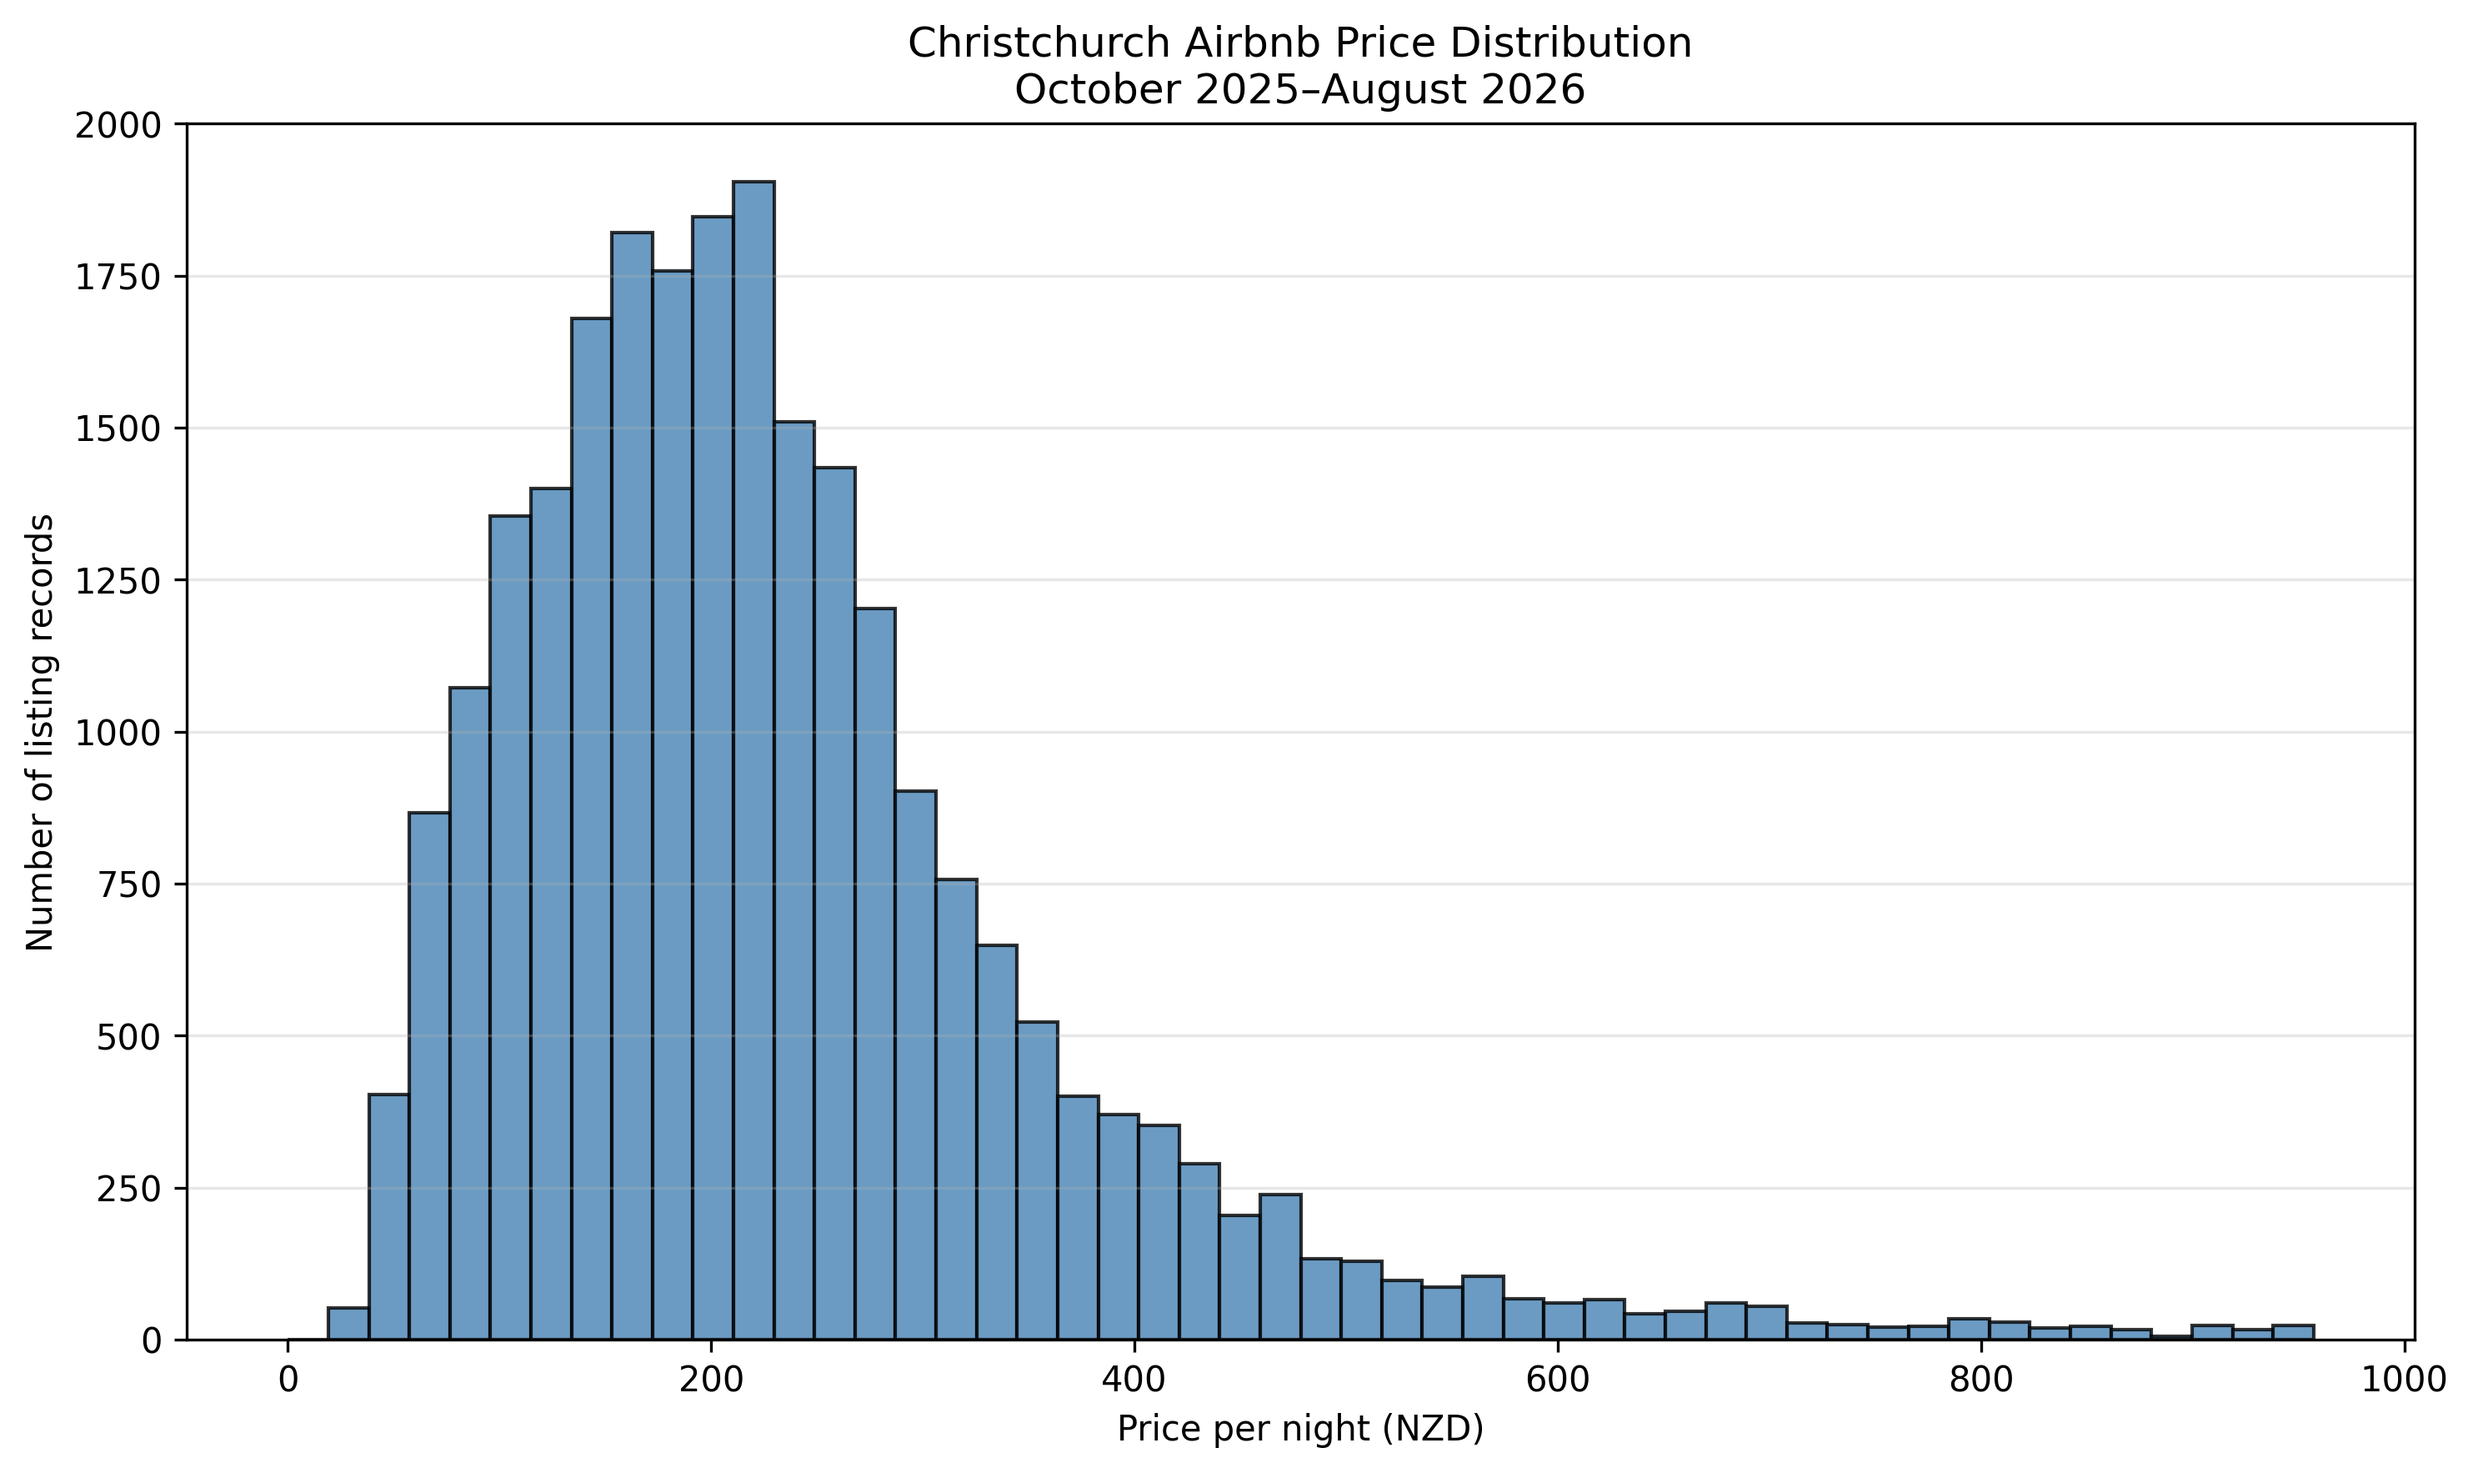
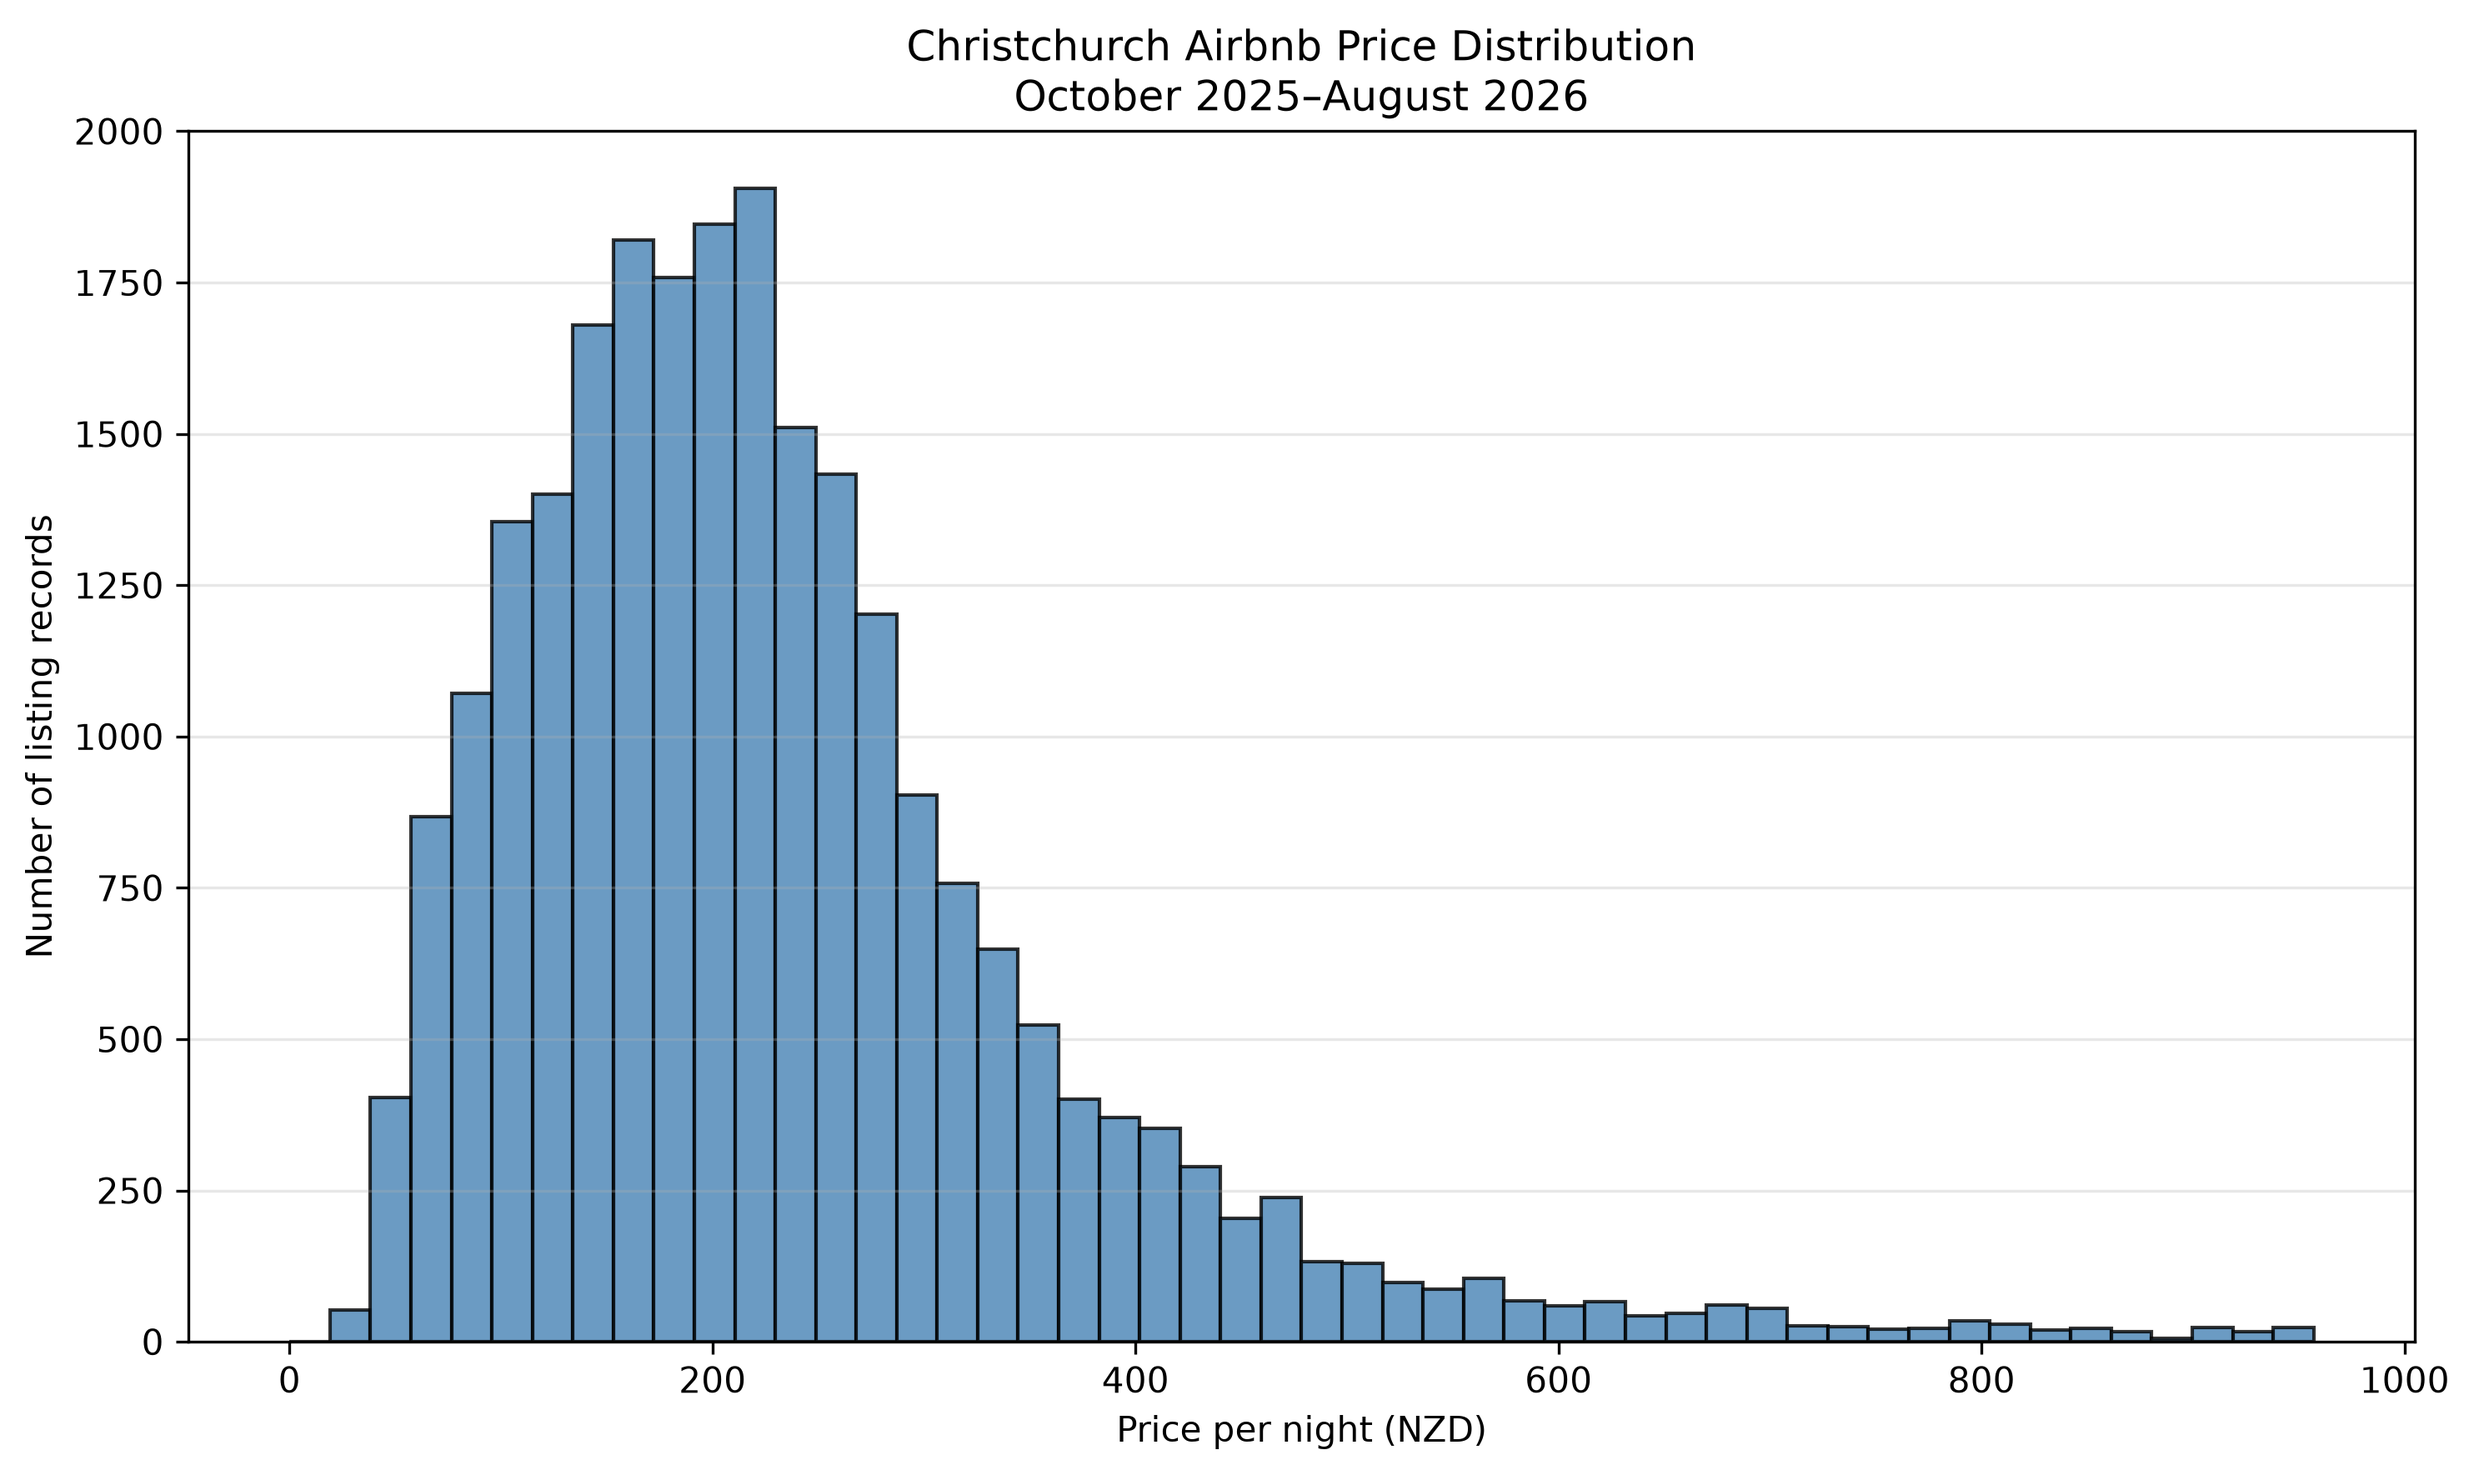
Update Airbnb analysis and cleaning through August 2026

diff --git a/deliverable_4/airbnb_deliverable_4.py b/deliverable_4/airbnb_deliverable_4.py
@@ -13,9 +13,9 @@ import pandas as pd
 # Parameters (kept together and named, rather than as literals inline below)
 # ---------------------------------------------------------------------------
 EXPECTED_MONTH_START = "2025-10"
-EXPECTED_MONTH_END = "2026-06"
+EXPECTED_MONTH_END = "2026-08"
 EXPECTED_CITY = "Christchurch City"
-DEFAULT_INPUT_FILENAME = "christchurch_listings_2025-10_to_2026-06.csv"
+DEFAULT_INPUT_FILENAME = "christchurch_listings_2025-10_to_2026-08.csv"
 DEFAULT_OUTPUT_DIRNAME = "cleaned"
 OUTPUT_CSV_NAME = "christchurch_listings_cleaned.csv"
 OUTPUT_REPORT_NAME = "deliverable_4_cleaning_notes.md"

diff --git a/deliverable_5/deliverable_4_cleaning_notes.md b/deliverable_5/deliverable_4_cleaning_notes.md
@@ -8,7 +8,7 @@ Input: `christchurch_listings_2025-10_to_2026-08.csv`, created by Deliverable 3.
 - After: 35,796 listing-month records, 19 columns.
 - Rows lost: 0.
 - Distinct listing IDs across all months: 4,264.
-- pandas version used: 2.3.3.
+- pandas version used: 3.0.5.
 
 A row describes one listing in one labelled month. Count unique IDs within each month; summing monthly counts counts repeated observations, not unique properties across the whole period.
 
